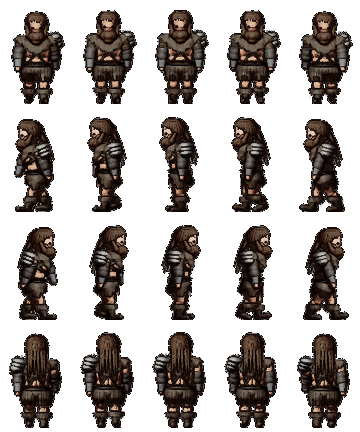
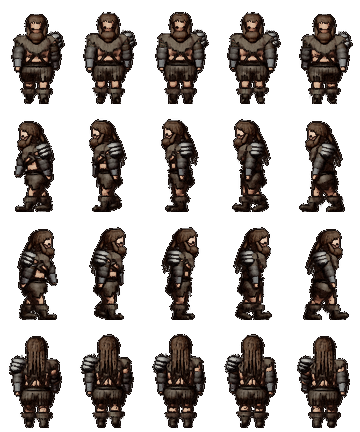
활쏘기 정면으로(왼손 몸 앞·몸 덜 돌림) · 엘프·수인 주문 3칸 팔 위로 · 인간·바바리안 맵 얼굴 작게(동작 시트는 다시 그리는 중)(AM59)
Claude-Session: https://claude.ai/code/session_01Afqs6cGsV5eqqCzMjhWtLf

diff --git a/docs/ASSUMPTIONS.md b/docs/ASSUMPTIONS.md
@@ -643,7 +643,7 @@
 | AM56 | **회피 2·3칸 = 몸을 옆으로 다 돌림 · 바바리안 거북목 · 다리 앞 ㄴ자 없앰**(사용자 2026-10-30): `wait`를 AM55에서 목·머리를 세운 칸으로 두 종족 같이(`wait@human` 지움), 2·3칸 몸 돌림 0.9 → 1.6(옆모습 — 몸을 돌려 피함). 인간 오른다리 앞 ㄴ자 = 망토 앞 트임을 잘라낸 뒤 트임 앞쪽 조각이 앞으로 내민 허벅지만 가늘게 덮은 것 → 옆에 가까운 칸(|sin 돌림| > 0.6)에선 큰 조각 말고는 허벅지를 덮지 않게, 아주 작은 조각(4% 미만)은 버림. 허리 칼집(knife)도 h6 순찰자에서 뺌 | 사용자 | `party_motions.json` wait · `BackDrape` side_view · MapLooks h6_ranger |
 | AM57 | **인간 팔 안쪽 살 검게 · 바바리안 땋은 머리 등에 붙임**(사용자 2026-10-30): 소매·팔목 가죽·팔꿈치 보호대 사이로 팔(위팔·아래팔) 살갗이 분홍으로 드러났다 → spec `arm_under`(h6 순찰자 `#16120f`)가 있으면 `Back.body`가 팔을 그 색 천으로 칠한다(손은 살갗 그대로). 바바리안 땋은 머리 끝은 등에서 0.03 이상 띄우지 않는다(털 망토 위로 띄운 0.06이면 옆모습에서 꼬리처럼 떴다) | 사용자 | MapLooks h6_ranger `arm_under` · `BackHair._long` braids |
 | AM58 | **인간 옆모습 망토를 엉덩이에서 떼기**(사용자 2026-10-30 "활·회피 옆모습에서 망토가 엉덩이에 딱 붙어 있다 — 살짝 떼서 자연스럽게"): 등 자락 사슬의 무릎·단 뒤로 빠짐 0.025/0.04 → 0.065/0.1(엉덩이 높이는 그대로) — 등에서 단까지 비스듬히 곧게 떨어져 엉덩이 뒤에 틈이 생긴다. 엉덩이 높이 자락을 키우면(굵기·뒤로 빠짐) 둥근 공처럼 부풀어 쓰지 않았다. 굵기는 AM55대로 얇게 | 사용자 | `BackDrape` keys(무릎·단 z) |
-| AM59 | **새 플레이어블 종족 후보 — 엘프·드워프·수인 복장 시안**(사용자 2026-10-30 "엘프·드워프·수인 3개 · 엘프·드워프는 흔히 아는 외형, 수인은 동물 귀와 꼬리 · 엘프·수인은 여성 · 머리색은 전부 어두운 계열 · 드워프는 수염 · 여러 복장을 보여 주면 하나를 골라 그것만 만든다" → 1차 15종·2차 12종 "종족 느낌도 안 나고 밋밋 — 은은한 개성" → **참고 그림 세 장 "이 사진들 복장으로"**): 몸 = `tools/monster_art/RaceParts.gd` BODIES(엘프 키 1.02·가는 몸 `slender` bulk 0.88·뒤로 솟은 뾰족한 귀 · 드워프 키 0.8·brute·다리 0.86·긴 수염(땋은 가닥 + 쇠고리) · 수인 키 0.98·여우/늑대/고양이 귀·털 꼬리), 여성 = 좁은 어깨·가는 허리·살짝 둥근 엉덩이·작은 가슴·부드러운 얼굴(`Back` soft_face). 소품 = `RaceKit.gd`(머리띠·화살통·사선 천 띠·목도리(털 깃)·앞치마·버클·코 가리개·등짐) + `RaceGear.gd`(엉덩이 가죽 띠·긴 칼집·밧줄·메달·등 양날 도끼), 사슬 치마 = `BackSavage kilt mat metal`, 양어깨받이 `pauldron side both`. 지금 시안 = `MapLooks` **e4 엘프 궁수**(흰 털 깃 회색 망토·올리브 웃옷·엉덩이 띠 둘·칼집·화살통·무릎 장화·짧은 검은 머리) · **d4 드워프 도끼 전사**(뿔 투구·머리 장식·털 어깨·무릎 사슬·놋쇠 팔목·땋은 수염 넷·등 도끼 — 참고 그림의 붉은 머리는 "어두운 머리" 결정대로 짙은 적갈색) · **k4~k6 수인 도적**(붉은 목도리·짙은 가죽 조끼·감은 팔목·허리 띠·주머니·단검·밧줄·긴 검은 장화 — 여우·고양이·늑대) → `docs/screens/race_looks/reference.png`. **4차(사용자 "여성 머리 너무 짧음 · 가슴이 너무 낮음 · 드워프 가운데 머리 채우기 · 엘프 화살통·드워프 도끼 없애기 · 수인은 여우만 · 목도리 입체감 · 엘프 망토 벗기기 · 엘프 머리 등까지 · 여성 몸이 뻣뻣")**: 엘프 망토·털 깃·화살통 없음 + 등까지 오는 숱 많은 머리(`hair_n`·`hair_w`·`hair_spread`) · 수인 여우만 + 어깨 아래 머리 · 목도리 두 바퀴 + 매듭 + 앞 자락(굵기를 고르지 않게, 감은 결) · 드워프 도끼 없음 + 투구 위 말꼬리 머리 다발(`crest` — 부채처럼 펴면 상자, 세우면 빗자루) + 수염 가운데 굵게 · 가슴을 겨드랑이 높이로 · 여성 뼈대(처진 어깨·모은 무릎·몸에 붙인 팔)·가는 목·승모근·어깨, 잘록한 허리 + 골반 옆, 맵 그림 폭 0.9·굵기 0.88 · 칼집을 짧게 뒤로 눕힘(앞에서 지팡이처럼 보였다). **5차(사용자 "여성 발이 너무 크다 · 엘프 엉덩이 밑 그림자 없애고 녹색 겉옷 · 드워프 앞머리 = 탐험 화면에서 이마가 훤히 뚫린 것")**: 여성 발 작게(발끝 0.078 · 발 굵기 0.78) · 여성은 엉덩이 골·아래 주름 없음 · 엘프 녹색 겉옷(`coat` len 0.16 — 엉덩이 아래까지) · 드워프 머리 다발(crest) 지우고 투구 챙이 이마까지(`helm_brow` −0.12 — 투구는 skull만 덮어 큰 맵 머리의 이마(face)가 드러났다). **6차(사용자 "여성들이 너무 거북목 · 수인 목도리 입체감")**: 여성은 목을 세우고 머리를 어깨 위로(`Back` female 목·머리 뒤로·가슴 조금 앞으로) + 맵 숙임 0.2배(`paint_actors`) · 목도리 = 아래 바퀴(어깨에 얹혀 넓고 어둡게) + 위 바퀴(턱 밑, 밝게) 명암 두 겹 + 굵은 매듭 + 길이가 다른 앞 자락 둘 + 등 끝자락(`RaceKit._ring`). **확정(사용자 2026-10-30 "수인 가랑이를 허리띠까지 올려 다리 길어 보이게 — 고치면 걷기·전투 동작 바로")**: 수인 `high_hips` 0.085(엉덩이 관절을 올리고 골반·엉덩이를 위로 줄임) → `MapLooks.CHOSEN` 엘프 e4_ranger · 드워프 d4_axe · 수인 k4_fox_rogue, `Party.RACES`에 셋 추가 → `assets/actors/{elf,dwarf,beastkin}.webp`(맵 걷기 4방향 × 5칸) · `assets/party/<종족>_back.webp`·`_back_motions.webp`(9동작 × 3칸)·`_back_dead.webp`, `races.json` 드워프·수인 sprite를 새 그림으로(**종족은 아직 꺼 둠 — 엘프는 races.json에 항목이 없다**). **켬(사용자 2026-10-30 "임시값으로 세 종족 다 켜 · 팔 휘두를 때 살이 드러나는 걸 옷 색으로")**: `races.json` 엘프 항목 새로(힘 5~8·민첩 10~14·물리 저항 3~6·마법 저항 8~12·지능 9~13, placeholder, `desc_ko` 없음 — 부연설명 금지) + 드워프·수인 `enabled` true(기존 임시 능력치 그대로), 세금은 이종족 기본(1배). 팔 = `arm_under`(소매 안 팔을 겉옷·셔츠 색으로, 손만 살 — AM57과 같은 방법). 확인 시트 `tools/art_review.py` → `docs/screens/race_looks/review_<종족>.png`. 주문 2·3칸은 엘프·수인만 든 오른손을 머리 오른쪽으로(`spell@elf`·`spell@beastkin` — 긴 머리·얼굴에 손이 가렸다, 사용자). 정한 것: 쇠 재질은 밝게 빛나 색을 어둡게 · 양날 도끼는 날 끝 뿔을 세워야 도끼로 읽힌다(둥근 판 둘은 귀처럼 보였다) · 목도리 끝자락은 하나만 비스듬히(둘이면 등에 M 자) · 투구 쓴 드워프는 머리카락 없음 · 엘프는 두건 없음(귀를 덮는다). **게임 그림·데이터는 그대로**(`Party.RACES`·`races.json enabled` 안 건드림). 원작 외형 원문은 받지 않았다 | 사용자 요청 | 시안 = `MapLooks` e*/d*/k* → `paint_look_preview.gd -- --look=<id,…> --out=<폴더>`(앞·옆·뒤) + `paint_actors.gd -- --look=… --out=<폴더>`(맵) → `python3 tools/looks_sheet.py --views … --map …`. **고른 뒤**: `Party.RACES`에 종족 + `MapLooks.CHOSEN[종족]` → `paint_actors --only=<종족>` · `paint_monsters --only=<종족>_back` · `paint_motions --only=<종족>_back` · `races.json` enabled·sprite·수치 |
+| AM59 | **새 플레이어블 종족 후보 — 엘프·드워프·수인 복장 시안**(사용자 2026-10-30 "엘프·드워프·수인 3개 · 엘프·드워프는 흔히 아는 외형, 수인은 동물 귀와 꼬리 · 엘프·수인은 여성 · 머리색은 전부 어두운 계열 · 드워프는 수염 · 여러 복장을 보여 주면 하나를 골라 그것만 만든다" → 1차 15종·2차 12종 "종족 느낌도 안 나고 밋밋 — 은은한 개성" → **참고 그림 세 장 "이 사진들 복장으로"**): 몸 = `tools/monster_art/RaceParts.gd` BODIES(엘프 키 1.02·가는 몸 `slender` bulk 0.88·뒤로 솟은 뾰족한 귀 · 드워프 키 0.8·brute·다리 0.86·긴 수염(땋은 가닥 + 쇠고리) · 수인 키 0.98·여우/늑대/고양이 귀·털 꼬리), 여성 = 좁은 어깨·가는 허리·살짝 둥근 엉덩이·작은 가슴·부드러운 얼굴(`Back` soft_face). 소품 = `RaceKit.gd`(머리띠·화살통·사선 천 띠·목도리(털 깃)·앞치마·버클·코 가리개·등짐) + `RaceGear.gd`(엉덩이 가죽 띠·긴 칼집·밧줄·메달·등 양날 도끼), 사슬 치마 = `BackSavage kilt mat metal`, 양어깨받이 `pauldron side both`. 지금 시안 = `MapLooks` **e4 엘프 궁수**(흰 털 깃 회색 망토·올리브 웃옷·엉덩이 띠 둘·칼집·화살통·무릎 장화·짧은 검은 머리) · **d4 드워프 도끼 전사**(뿔 투구·머리 장식·털 어깨·무릎 사슬·놋쇠 팔목·땋은 수염 넷·등 도끼 — 참고 그림의 붉은 머리는 "어두운 머리" 결정대로 짙은 적갈색) · **k4~k6 수인 도적**(붉은 목도리·짙은 가죽 조끼·감은 팔목·허리 띠·주머니·단검·밧줄·긴 검은 장화 — 여우·고양이·늑대) → `docs/screens/race_looks/reference.png`. **4차(사용자 "여성 머리 너무 짧음 · 가슴이 너무 낮음 · 드워프 가운데 머리 채우기 · 엘프 화살통·드워프 도끼 없애기 · 수인은 여우만 · 목도리 입체감 · 엘프 망토 벗기기 · 엘프 머리 등까지 · 여성 몸이 뻣뻣")**: 엘프 망토·털 깃·화살통 없음 + 등까지 오는 숱 많은 머리(`hair_n`·`hair_w`·`hair_spread`) · 수인 여우만 + 어깨 아래 머리 · 목도리 두 바퀴 + 매듭 + 앞 자락(굵기를 고르지 않게, 감은 결) · 드워프 도끼 없음 + 투구 위 말꼬리 머리 다발(`crest` — 부채처럼 펴면 상자, 세우면 빗자루) + 수염 가운데 굵게 · 가슴을 겨드랑이 높이로 · 여성 뼈대(처진 어깨·모은 무릎·몸에 붙인 팔)·가는 목·승모근·어깨, 잘록한 허리 + 골반 옆, 맵 그림 폭 0.9·굵기 0.88 · 칼집을 짧게 뒤로 눕힘(앞에서 지팡이처럼 보였다). **5차(사용자 "여성 발이 너무 크다 · 엘프 엉덩이 밑 그림자 없애고 녹색 겉옷 · 드워프 앞머리 = 탐험 화면에서 이마가 훤히 뚫린 것")**: 여성 발 작게(발끝 0.078 · 발 굵기 0.78) · 여성은 엉덩이 골·아래 주름 없음 · 엘프 녹색 겉옷(`coat` len 0.16 — 엉덩이 아래까지) · 드워프 머리 다발(crest) 지우고 투구 챙이 이마까지(`helm_brow` −0.12 — 투구는 skull만 덮어 큰 맵 머리의 이마(face)가 드러났다). **6차(사용자 "여성들이 너무 거북목 · 수인 목도리 입체감")**: 여성은 목을 세우고 머리를 어깨 위로(`Back` female 목·머리 뒤로·가슴 조금 앞으로) + 맵 숙임 0.2배(`paint_actors`) · 목도리 = 아래 바퀴(어깨에 얹혀 넓고 어둡게) + 위 바퀴(턱 밑, 밝게) 명암 두 겹 + 굵은 매듭 + 길이가 다른 앞 자락 둘 + 등 끝자락(`RaceKit._ring`). **확정(사용자 2026-10-30 "수인 가랑이를 허리띠까지 올려 다리 길어 보이게 — 고치면 걷기·전투 동작 바로")**: 수인 `high_hips` 0.085(엉덩이 관절을 올리고 골반·엉덩이를 위로 줄임) → `MapLooks.CHOSEN` 엘프 e4_ranger · 드워프 d4_axe · 수인 k4_fox_rogue, `Party.RACES`에 셋 추가 → `assets/actors/{elf,dwarf,beastkin}.webp`(맵 걷기 4방향 × 5칸) · `assets/party/<종족>_back.webp`·`_back_motions.webp`(9동작 × 3칸)·`_back_dead.webp`, `races.json` 드워프·수인 sprite를 새 그림으로(**종족은 아직 꺼 둠 — 엘프는 races.json에 항목이 없다**). **켬(사용자 2026-10-30 "임시값으로 세 종족 다 켜 · 팔 휘두를 때 살이 드러나는 걸 옷 색으로")**: `races.json` 엘프 항목 새로(힘 5~8·민첩 10~14·물리 저항 3~6·마법 저항 8~12·지능 9~13, placeholder, `desc_ko` 없음 — 부연설명 금지) + 드워프·수인 `enabled` true(기존 임시 능력치 그대로), 세금은 이종족 기본(1배). 팔 = `arm_under`(소매 안 팔을 겉옷·셔츠 색으로, 손만 살 — AM57과 같은 방법). 확인 시트 `tools/art_review.py` → `docs/screens/race_looks/review_<종족>.png`. 주문 2칸은 엘프·수인만 든 오른손을 머리 오른쪽으로, 3칸은 오른팔을 곧게 위로(`spell@elf`·`spell@beastkin` — 긴 머리·얼굴에 손이 가렸다, 사용자). **활(모든 종족, 사용자 "오른쪽을 쏘는 것 같다 — 왼팔을 줄이고 활을 몸 쪽으로")**: `party_motions.json shoot` 몸 돌림 1.3 → 0.95 · 활 든 왼손을 몸 앞 깊숙이(보는 쪽 x 89 → 77 · z −21 → −34) · 겨눔 거의 정면 — 완전히 정면(x 68 · z −42)으로 하면 활이 옆에서 본 막대가 되어 활로 읽히지 않았다. **인간·바바리안 맵 머리** 1.75 → 1.62 · 2.1 → 1.92(사용자 "탐험 화면 얼굴 조금 작게 — 엘프·수인만큼은 아니고", `MapLooks` h6·b9 head). 정한 것: 쇠 재질은 밝게 빛나 색을 어둡게 · 양날 도끼는 날 끝 뿔을 세워야 도끼로 읽힌다(둥근 판 둘은 귀처럼 보였다) · 목도리 끝자락은 하나만 비스듬히(둘이면 등에 M 자) · 투구 쓴 드워프는 머리카락 없음 · 엘프는 두건 없음(귀를 덮는다). **게임 그림·데이터는 그대로**(`Party.RACES`·`races.json enabled` 안 건드림). 원작 외형 원문은 받지 않았다 | 사용자 요청 | 시안 = `MapLooks` e*/d*/k* → `paint_look_preview.gd -- --look=<id,…> --out=<폴더>`(앞·옆·뒤) + `paint_actors.gd -- --look=… --out=<폴더>`(맵) → `python3 tools/looks_sheet.py --views … --map …`. **고른 뒤**: `Party.RACES`에 종족 + `MapLooks.CHOSEN[종족]` → `paint_actors --only=<종족>` · `paint_monsters --only=<종족>_back` · `paint_motions --only=<종족>_back` · `races.json` enabled·sprite·수치 |
 | AM13 | 입자는 CPUParticles2D(웹 호환), 플레이어를 따라가며 시야 반경 안에서만 생기고 월드에 남는다(걸어도 끌려가지 않음). 그림은 둥근 점(그러데이션 16px) — 손그림 입자는 A2 이후 | 지시서 §3.3·§7 | `AmbientParticles` |
 
 ## 1층 채우기 — 다른 탐험가·약탈자·밀도 (2026-10-21, 사용자 "abcdf 하고 싶은데 1층에도 약탈자가 있음" — `docs/plans/floor1_fill.md` A·B·C·D·F)

diff --git a/docs/archive/PROGRESS_LOG.md b/docs/archive/PROGRESS_LOG.md
@@ -17,6 +17,7 @@
   - 확정 + 게임 그림(사용자 "수인 가랑이를 허리띠까지 — 고치면 걷기·전투 동작 바로"): 수인 `high_hips`(`Back` 엉덩이 관절·골반), `Party.RACES` + `MapLooks.CHOSEN`(e4·d4·k4) → paint_actors `--only=elf,dwarf,beastkin` · paint_monsters `--only=<종족>_back` · paint_motions `--only=<종족>_back`(세 프로세스 동시, 약 4분). `races.json` 드워프·수인 sprite 경로만 새 그림으로. 캡처: 전투에 드워프·수인 동료 + 동작(swing·shoot·spell) (그림은 다음 커밋에서 combat_elf_party.png로 바꿈). 엘프는 races.json 항목이 없어 게임 캡처 못 함(시트는 눈으로 확인).
   - 켬(사용자 "임시값으로 세 종족 다 켜 · 팔 휘두를 때 살이 드러나는 것 덮기 · 그림 정리해서 확인"): `races.json` 엘프 새로 + 드워프·수인 enabled(임시 능력치, 세금 이종족 1배), CANON 종족 줄. 새 종족 옷차림에 `arm_under`(겉옷·셔츠 색) → 맵·뒷모습·동작 다시 그림. 확인 시트 `tools/art_review.py` → `docs/screens/race_looks/review_{elf,dwarf,beastkin}.png`. 게임 캡처: 엘프로 시작해 탐험(`explore_elf.png`) · 엘프 + 드워프·수인 동료 전투(`combat_elf_party.png`). PLAYTEST 맨 위 절.
   - 주문 손(사용자 "엘프·수인 주문 3칸에서 손이 얼굴에 가려 — 오른쪽으로"): `party_motions.json` spell@elf·spell@beastkin(2·3칸 오른팔꿈치·주먹을 머리 오른쪽으로) → 두 종족 동작 다시 그림. 모아 보기 `art_review.py --motion=<동작>`·`--walk=<줄>` → `docs/screens/race_looks/motion_spell.png`·`motion_shoot.png`(다섯 종족)·`walk_왼쪽_오른쪽.png`(인간·바바리안).
+  - 활·주문·얼굴(사용자): 다섯 종족 활 `shoot`(몸 돌림 0.95 · 왼손 몸 앞 깊숙이 · 겨눔 거의 정면 — 시험: 완전 정면은 활이 막대로 보임), 엘프·수인 주문 3칸 오른팔 위로, 인간·바바리안 맵 머리 1.62·1.92 → paint_actors `--only=human,barbarian`(함께 다시 그려지는 KEEP h3·r0은 그대로 되돌림) · paint_motions 다섯 종족.
   - 남은 것: 종족 능력치·세금·종족 특성(원작 원문이 있으면), 다른 탐험가 무리(층 `explorers.looks`)에 새 종족 섞기.
 
 - **균열 떠도는 무리 · 도개교 매복 (2026-10-30, 사용자 "균열 몬스터 빈도 늘려 · 도개교 데드맨은 중간을 지날 때 화면 양옆에서 · 한 무리와 싸우면 전부 사라지게", RF26)** — 범위: 조우 kind `roam`(챕터마다 떠도는 무리 2~3, 17챕터 합계 49 — 구성은 그 챕터 posts에서 움직이지 않는 가고일 석상·수호자의 눈을 뺀 것) + kind `ambush`(`RiftAmbush` — 성채 2챕터 다리 한가운데 [50,19] 3×3에 들어서면 서쪽 [37,20]·동쪽 [65,20]에 데드맨 6 + 병사 2 무리 둘, 곧장 쫓음 · 한 무리와 전투가 끝나면 둘 다 걷음). 다리 위 대기 무리(RF24)와 조우 자리 [51,20] 없앰, 챕터 소개 문구 바꿈. 완료 기준: 검증기(새 kind·from 걸을 수 있음·trigger 모서리) · `tests/test_rift_ambush.gd`(처음엔 다리가 비었다 · 한가운데서 양쪽 끝에 두 무리 · 한 번뿐 · 이기든 도망치든 모두 사라짐 · 모든 챕터에 roam 수만큼 놓임) · sim_rift(매복 칸으로 걸어가 터뜨리고 한 무리와 싸운 뒤 남은 매복 무리가 없는지 — 시드 1~3 통과, 플레이어가 이미 물건 칸에 서 있으면 길 없음으로 잘못 보던 것 고침) · 캡처 `docs/screens/rift_ambush/bridge_0·4·10.jpg`(나타남 → 다가옴 → 데드맨 8 전투) · 배치도에 매복 칸·나타나는 칸, 맨 위 줄에 떠도는 무리 수. 캡처 옵션 `--chase=N` 추가. "양옆"은 화면 좌우 = 다리 두 끝(앞뒤 협공)으로 봤다(가정 RF26).
